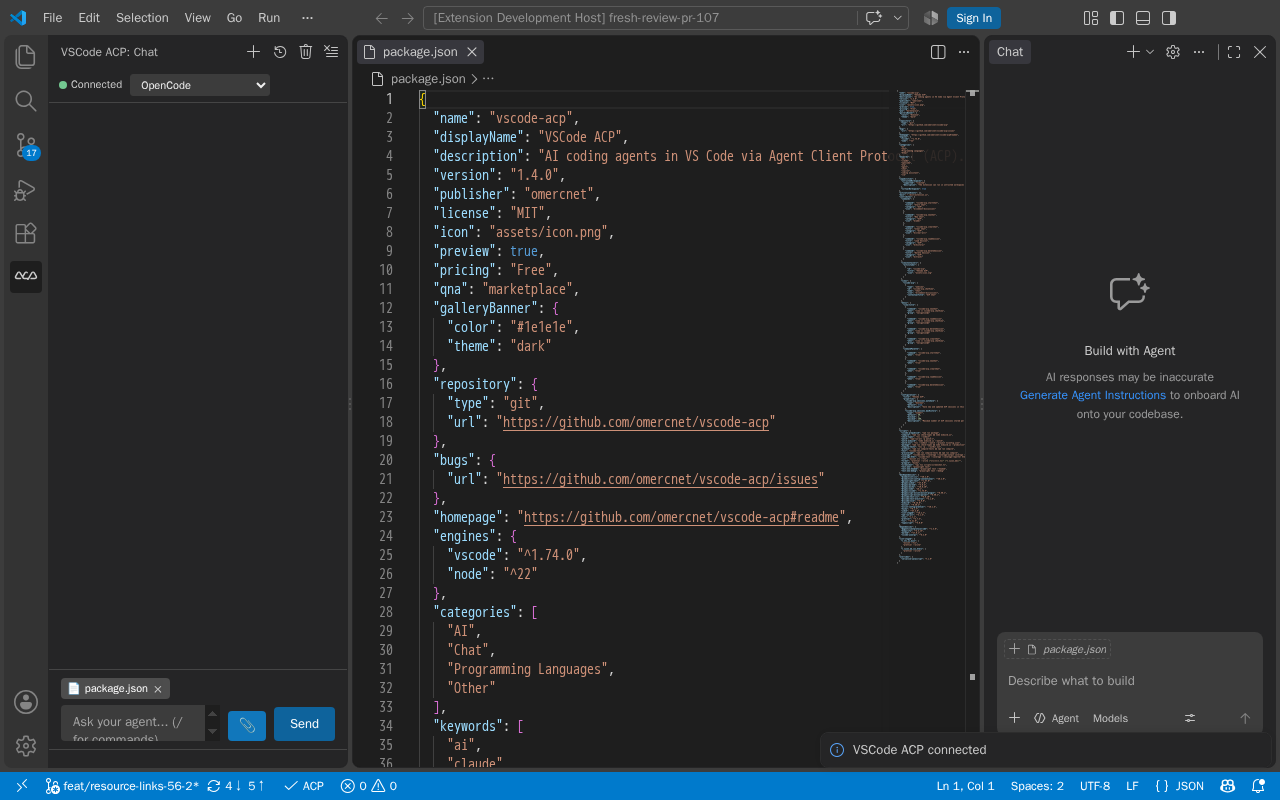
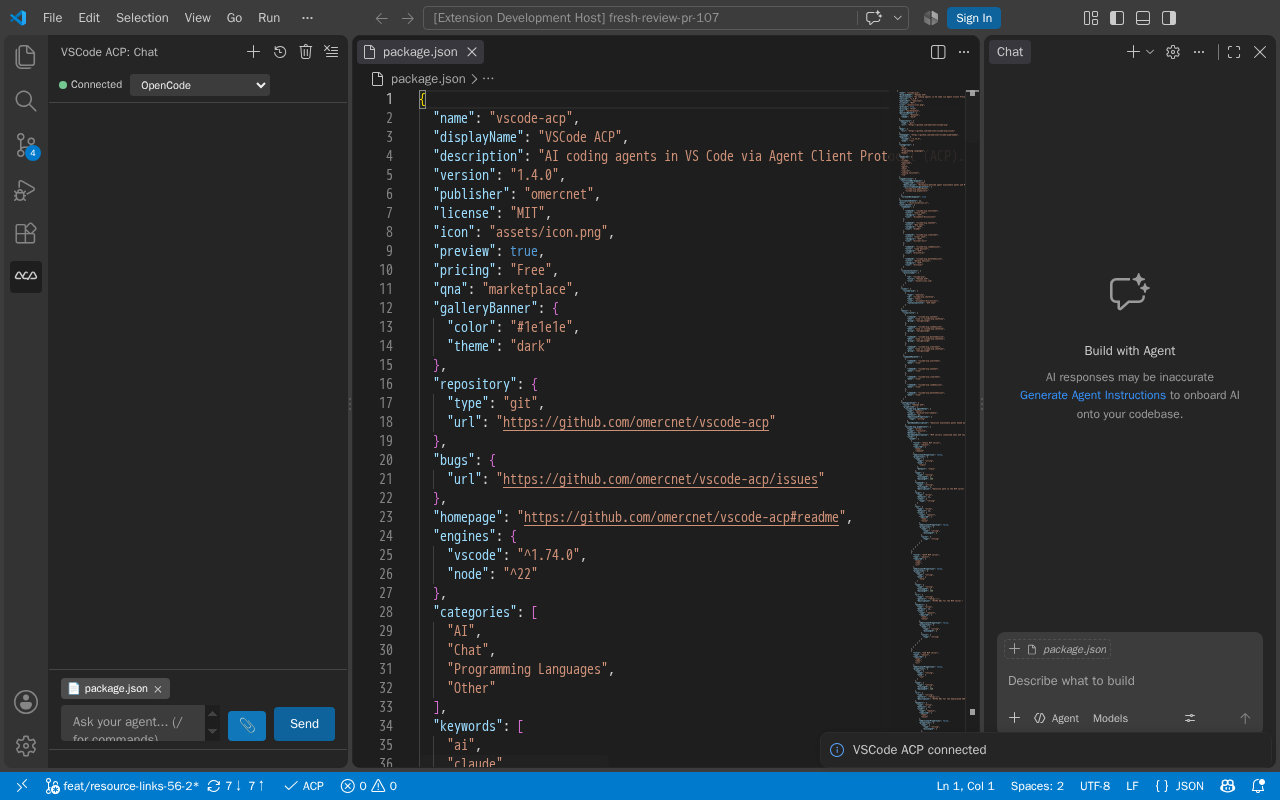
fix(chat): revalidate attachments and release replay locks

Changed region(s): [[0.6875, 0.5, 0.75, 0.9062], [0.6875, 0.2188, 0.75, 0.4375]]

diff --git a/src/attachments.ts b/src/attachments.ts
@@ -103,17 +103,17 @@ export function escapeQuickPickLabel(text: string): string {
 }
 
 /**
- * Checks that a local file resolves inside a trusted local workspace root.
- * Canonical paths prevent workspace symlinks from granting access outside
- * the workspace boundary.
+ * Resolves a local file to its canonical URI inside a trusted local workspace
+ * root. Returning the resolved target prevents a selected symlink from later
+ * being transported under a misleading workspace path.
  */
-export async function isTrustedWorkspaceFile(
+async function resolveTrustedWorkspaceFile(
   uri: vscode.Uri,
   workspaceFolders = vscode.workspace.workspaceFolders,
   workspaceTrusted = vscode.workspace.isTrusted
-): Promise<boolean> {
+): Promise<vscode.Uri | null> {
   if (!workspaceTrusted || uri.scheme !== "file" || !workspaceFolders) {
-    return false;
+    return null;
   }
 
   try {
@@ -130,14 +130,28 @@ export async function isTrustedWorkspaceFile(
           !relativePath.startsWith(`..${sep}`) &&
           !isAbsolute(relativePath))
       ) {
-        return true;
+        return vscode.Uri.file(candidate);
       }
     }
   } catch {
-    return false;
+    return null;
   }
 
-  return false;
+  return null;
+}
+
+export async function isTrustedWorkspaceFile(
+  uri: vscode.Uri,
+  workspaceFolders = vscode.workspace.workspaceFolders,
+  workspaceTrusted = vscode.workspace.isTrusted
+): Promise<boolean> {
+  return (
+    (await resolveTrustedWorkspaceFile(
+      uri,
+      workspaceFolders,
+      workspaceTrusted
+    )) !== null
+  );
 }
 
 /**
@@ -153,14 +167,17 @@ export async function createFileAttachment(
   workspaceFolders = vscode.workspace.workspaceFolders,
   workspaceTrusted = vscode.workspace.isTrusted
 ): Promise<FileAttachment | null> {
-  if (
-    !(await isTrustedWorkspaceFile(uri, workspaceFolders, workspaceTrusted))
-  ) {
+  const resolvedUri = await resolveTrustedWorkspaceFile(
+    uri,
+    workspaceFolders,
+    workspaceTrusted
+  );
+  if (!resolvedUri) {
     return null;
   }
 
-  const name = basenameFromUriPath(uri);
-  const canonicalUri = canonicalFileUri(uri);
+  const name = basenameFromUriPath(resolvedUri);
+  const canonicalUri = canonicalFileUri(resolvedUri);
 
   if (!isAttachmentMetadataValid(name, canonicalUri)) {
     return null;
@@ -168,7 +185,7 @@ export async function createFileAttachment(
 
   let size: number | undefined;
   try {
-    const stat = await vscode.workspace.fs.stat(uri);
+    const stat = await vscode.workspace.fs.stat(resolvedUri);
     if (stat.type !== vscode.FileType.File) {
       return null;
     }

diff --git a/src/views/chat.ts b/src/views/chat.ts
@@ -200,6 +200,7 @@ export class ChatViewProvider implements vscode.WebviewViewProvider {
 
     this.acpClient.setOnStateChange((state) => {
       if (state === "disconnected" || state === "error") {
+        const interruptedReplay = this.isReplaying;
         this.conversationGeneration++;
         this.hasSession = false;
         this.isReplaying = false;
@@ -210,6 +211,12 @@ export class ChatViewProvider implements vscode.WebviewViewProvider {
         this.activeSessionContext = null;
         this.clearPendingAttachments();
         this.expirePermissionRequests();
+        if (interruptedReplay) {
+          this.postMessage({
+            type: "replayFailed",
+            text: "The agent disconnected while restoring this session.",
+          });
+        }
       }
       this.postMessage({ type: "connectionState", state });
     });
@@ -1424,14 +1431,39 @@ export class ChatViewProvider implements vscode.WebviewViewProvider {
 
     const queuedGeneration = this.conversationGeneration;
     let promptStarted = false;
-    const attachments = this.resolveAttachments(attachmentIds);
-    this.postMessage({ type: "userMessage", text, attachments });
+    const selectedAttachments = this.resolveAttachments(attachmentIds);
+    const attachments: FileAttachment[] = [];
     try {
+      for (const selected of selectedAttachments) {
+        const refreshed = await createFileAttachment(
+          vscode.Uri.parse(selected.uri, true),
+          selected.id
+        );
+        if (queuedGeneration !== this.conversationGeneration) {
+          this.postMessage({ type: "streamEnd", stopReason: "cancelled" });
+          return;
+        }
+        if (refreshed) {
+          attachments.push(refreshed);
+        }
+      }
+
+      if (selectedAttachments.length > attachments.length) {
+        this.postMessage({
+          type: "agentError",
+          text: "Some selected files are no longer available inside the trusted workspace.",
+        });
+      }
+      if (!text && attachments.length === 0) {
+        this.postMessage({ type: "streamEnd", stopReason: "error" });
+        return;
+      }
+
       await this.ensureSession();
       if (queuedGeneration !== this.conversationGeneration) {
         throw new RequestError(-32800, "Request cancelled");
       }
-      this.postMessage({ type: "userMessage", text });
+      this.postMessage({ type: "userMessage", text, attachments });
       promptStarted = true;
       const promptGeneration = this.conversationGeneration;
       const promptSessionId = this.acpClient.getCurrentSessionId();

diff --git a/src/test/chat.test.ts b/src/test/chat.test.ts
@@ -978,6 +978,37 @@ suite("ChatViewProvider", () => {
         { type: "sessionTransition", active: false },
       ]);
     });
+
+    test("releases replay state when the agent disconnects", () => {
+      const client = new TestACPClient();
+      const provider = new ChatViewProvider(
+        mockExtensionUri,
+        client as unknown as ACPClient,
+        memento as unknown as vscode.Memento
+      );
+      const messages: Array<Record<string, unknown>> = [];
+      Object.defineProperty(provider, "postMessage", {
+        value: (message: Record<string, unknown>) => messages.push(message),
+      });
+      const internals = provider as unknown as {
+        isReplaying: boolean;
+        replayGeneration: number | null;
+      };
+      internals.isReplaying = true;
+      internals.replayGeneration = 0;
+
+      client.emitStateChange("disconnected");
+
+      assert.strictEqual(internals.isReplaying, false);
+      assert.strictEqual(internals.replayGeneration, null);
+      assert.deepStrictEqual(
+        messages.find((message) => message.type === "replayFailed"),
+        {
+          type: "replayFailed",
+          text: "The agent disconnected while restoring this session.",
+        }
+      );
+    });
   });
 
   suite("authentication", () => {
@@ -2620,6 +2651,32 @@ suite("ChatViewProvider", () => {
   });
 
   suite("Attachment lifecycle", () => {
+    let originalCreate: PropertyDescriptor;
+
+    setup(() => {
+      const descriptor = Object.getOwnPropertyDescriptor(
+        attachmentHelpers,
+        "createFileAttachment"
+      );
+      assert.ok(descriptor);
+      originalCreate = descriptor;
+      Object.defineProperty(attachmentHelpers, "createFileAttachment", {
+        configurable: true,
+        value: async (uri: vscode.Uri, id: string) => ({
+          id,
+          uri: uri.toString(),
+          name: decodeURIComponent(uri.path.split("/").at(-1) ?? ""),
+        }),
+      });
+    });
+
+    teardown(() => {
+      Object.defineProperty(
+        attachmentHelpers,
+        "createFileAttachment",
+        originalCreate
+      );
+    });
     test("does not transport stale attachment ids after chat reset", async () => {
       class CapturingClient extends TestACPClient {
         public sentAttachments: readonly unknown[] = [];
@@ -3019,7 +3076,7 @@ suite("ChatViewProvider", () => {
 
       await internals.handleUserMessage("Review", [attachment.id]);
 
-      assert.strictEqual(
+      assert.deepStrictEqual(
         internals.pendingAttachments.get(attachment.id),
         attachment
       );

diff --git a/src/test/webview.test.ts b/src/test/webview.test.ts
@@ -593,9 +593,17 @@ suite("Webview", () => {
         assert.strictEqual(elements.inputEl.disabled, false);
 
         controller.handleMessage({ type: "chatCleared" });
-        controller.handleMessage({ type: "error", text: "Unrelated failure" });
+        controller.handleMessage({
+          type: "agentError",
+          text: "Selected file is no longer available",
+        });
         assert.strictEqual(elements.sendBtn.disabled, true);
         assert.strictEqual(elements.attachBtn.disabled, true);
+        assert.ok(
+          elements.messagesEl.textContent?.includes(
+            "Selected file is no longer available"
+          )
+        );
 
         controller.handleMessage({ type: "streamEnd" });
         assert.strictEqual(elements.sendBtn.disabled, false);
@@ -664,6 +672,8 @@ suite("Webview", () => {
         controller.handleMessage({ type: "restoreInput", text: "Resume this" });
 
         assert.strictEqual(elements.inputEl.value, "Typed while connecting");
+      });
+
       test("renders attachment-only messages and treats labels as text", () => {
         controller.handleMessage({
           type: "userMessage",

diff --git a/src/test/mocks/acp-server.ts b/src/test/mocks/acp-server.ts
@@ -120,10 +120,6 @@ export class MockACPServer {
     return this.initializeRequest;
   }
 
-  getNewSessionRequest(): acp.NewSessionRequest | null {
-    return this.newSessionRequest;
-  }
-
   getPermissionOutcomes(): readonly acp.RequestPermissionOutcome[] {
     return this.permissionOutcomes;
   }
@@ -318,7 +314,6 @@ export class MockACPServer {
   }
 
   private handleNewSession(id: number, params?: Record<string, unknown>): void {
-    this.newSessionRequest = (params ?? null) as acp.NewSessionRequest | null;
     this.newSessionRequestCount++;
     if (params) {
       this.newSessionRequests.push(params as acp.NewSessionRequest);

diff --git a/src/test/attachments.test.ts b/src/test/attachments.test.ts
@@ -149,6 +149,17 @@ suite("Resource link attachments", () => {
           ),
           null
         );
+        await rm(insidePath);
+        await symlink(outsidePath, insidePath);
+        assert.strictEqual(
+          await createFileAttachment(
+            vscode.Uri.file(insidePath),
+            "inside-after-replacement",
+            folders,
+            true
+          ),
+          null
+        );
       } finally {
         await rm(root, { recursive: true, force: true });
         await rm(outside, { recursive: true, force: true });

diff --git a/src/test/client.test.ts b/src/test/client.test.ts
@@ -610,7 +610,7 @@ suite("ACPClient with Mock Server", () => {
       assert.ok(response.sessionId.startsWith("mock-session-"));
       assert.strictEqual(client.getCurrentSessionId(), response.sessionId);
       assert.deepStrictEqual(
-        mockProcesses.at(-1)?.server.getNewSessionRequest(),
+        mockProcesses.at(-1)?.server.getNewSessionRequests()[0],
         { cwd: "/test/dir", mcpServers: [] }
       );
 

diff --git a/src/views/webview/main.ts b/src/views/webview/main.ts
@@ -1585,6 +1585,7 @@ export class WebviewController {
           this.showThinking();
         }
         break;
+      case "agentError":
       case "error":
         this.hideThinking();
         if (msg.text) this.addMessage(msg.text, "error");
